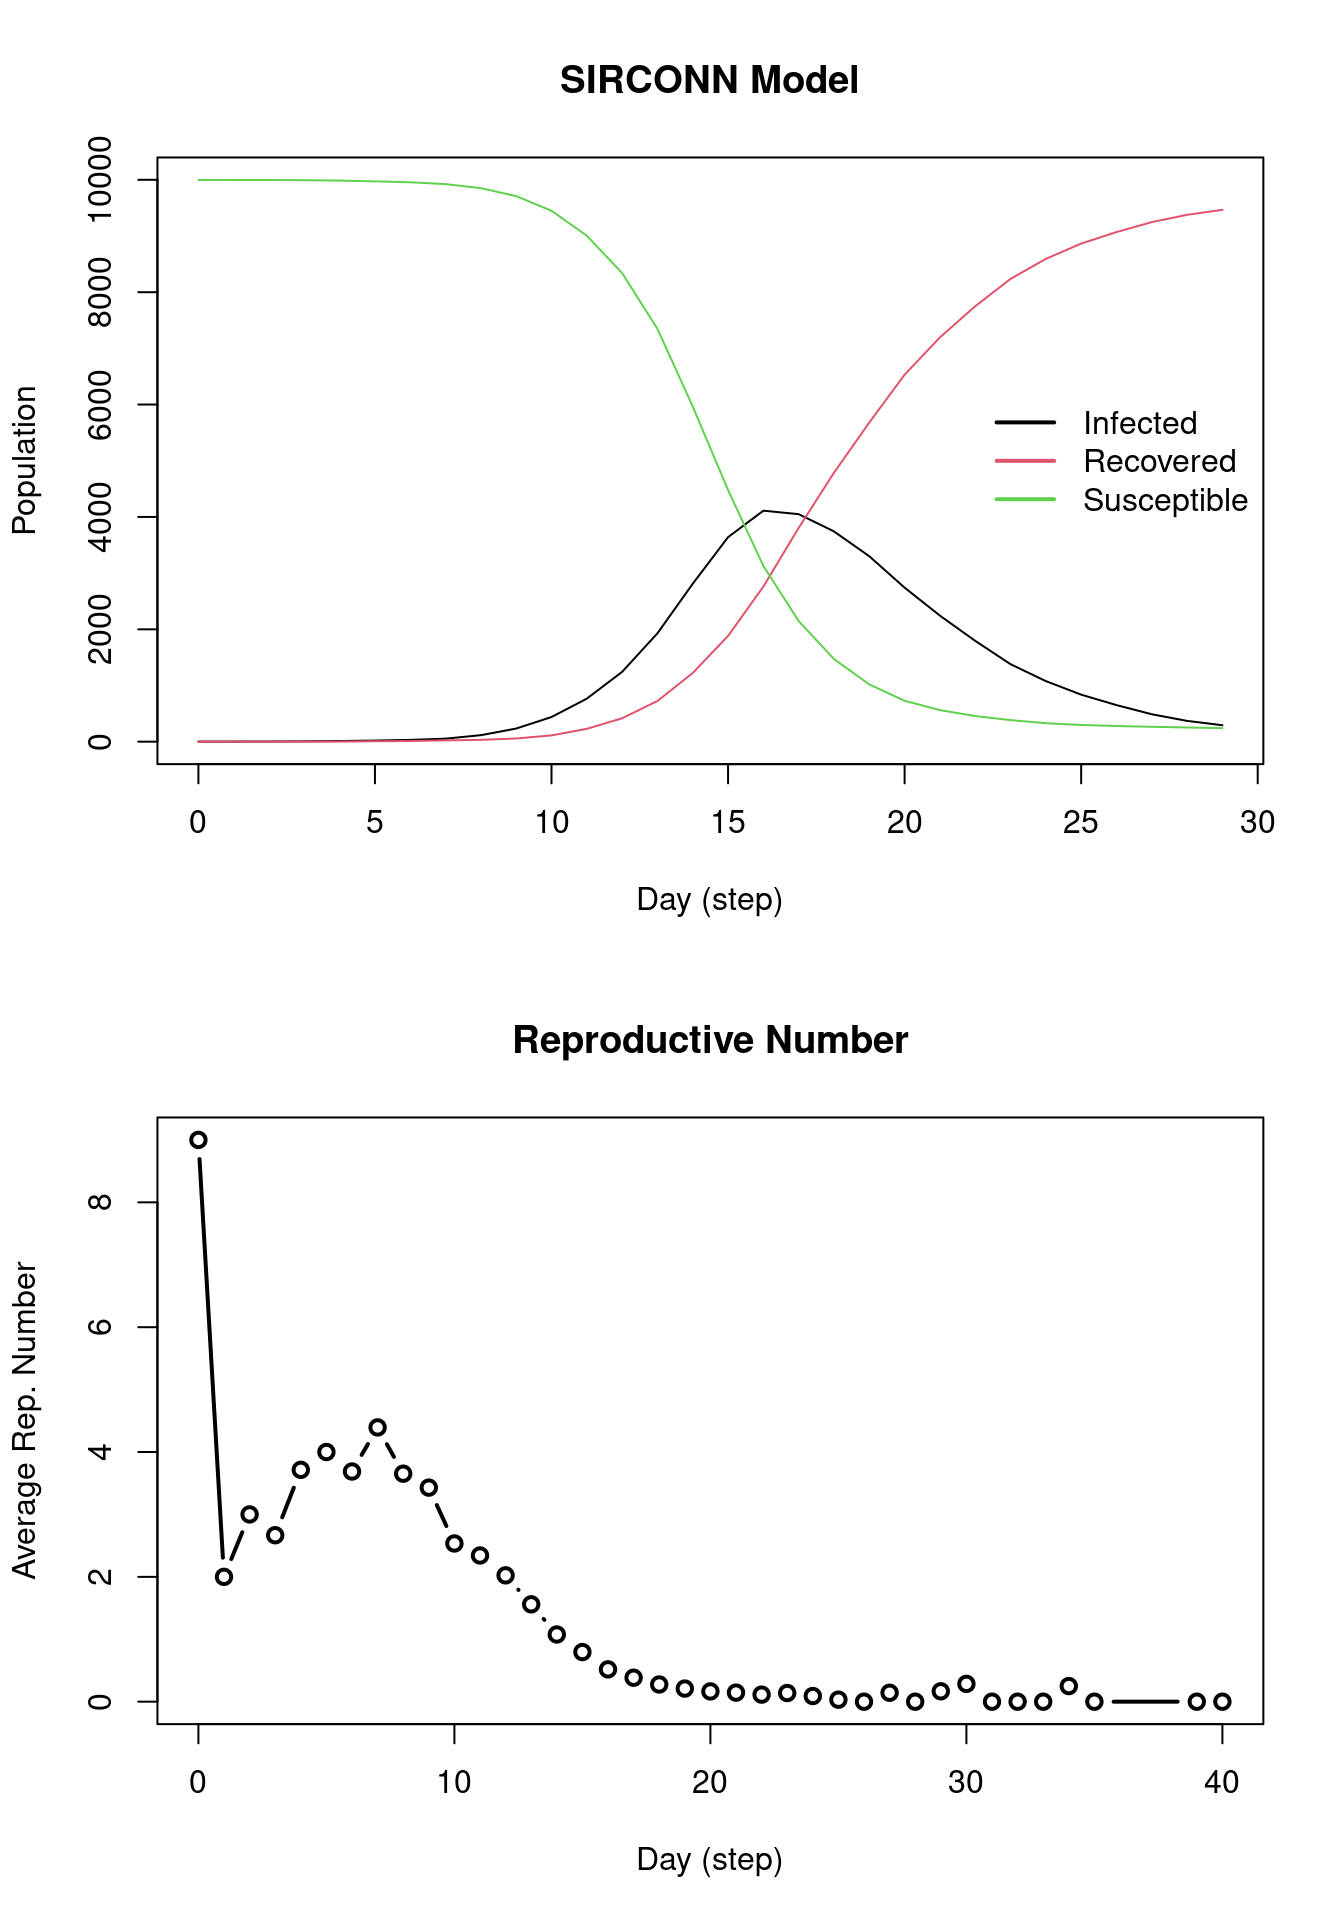
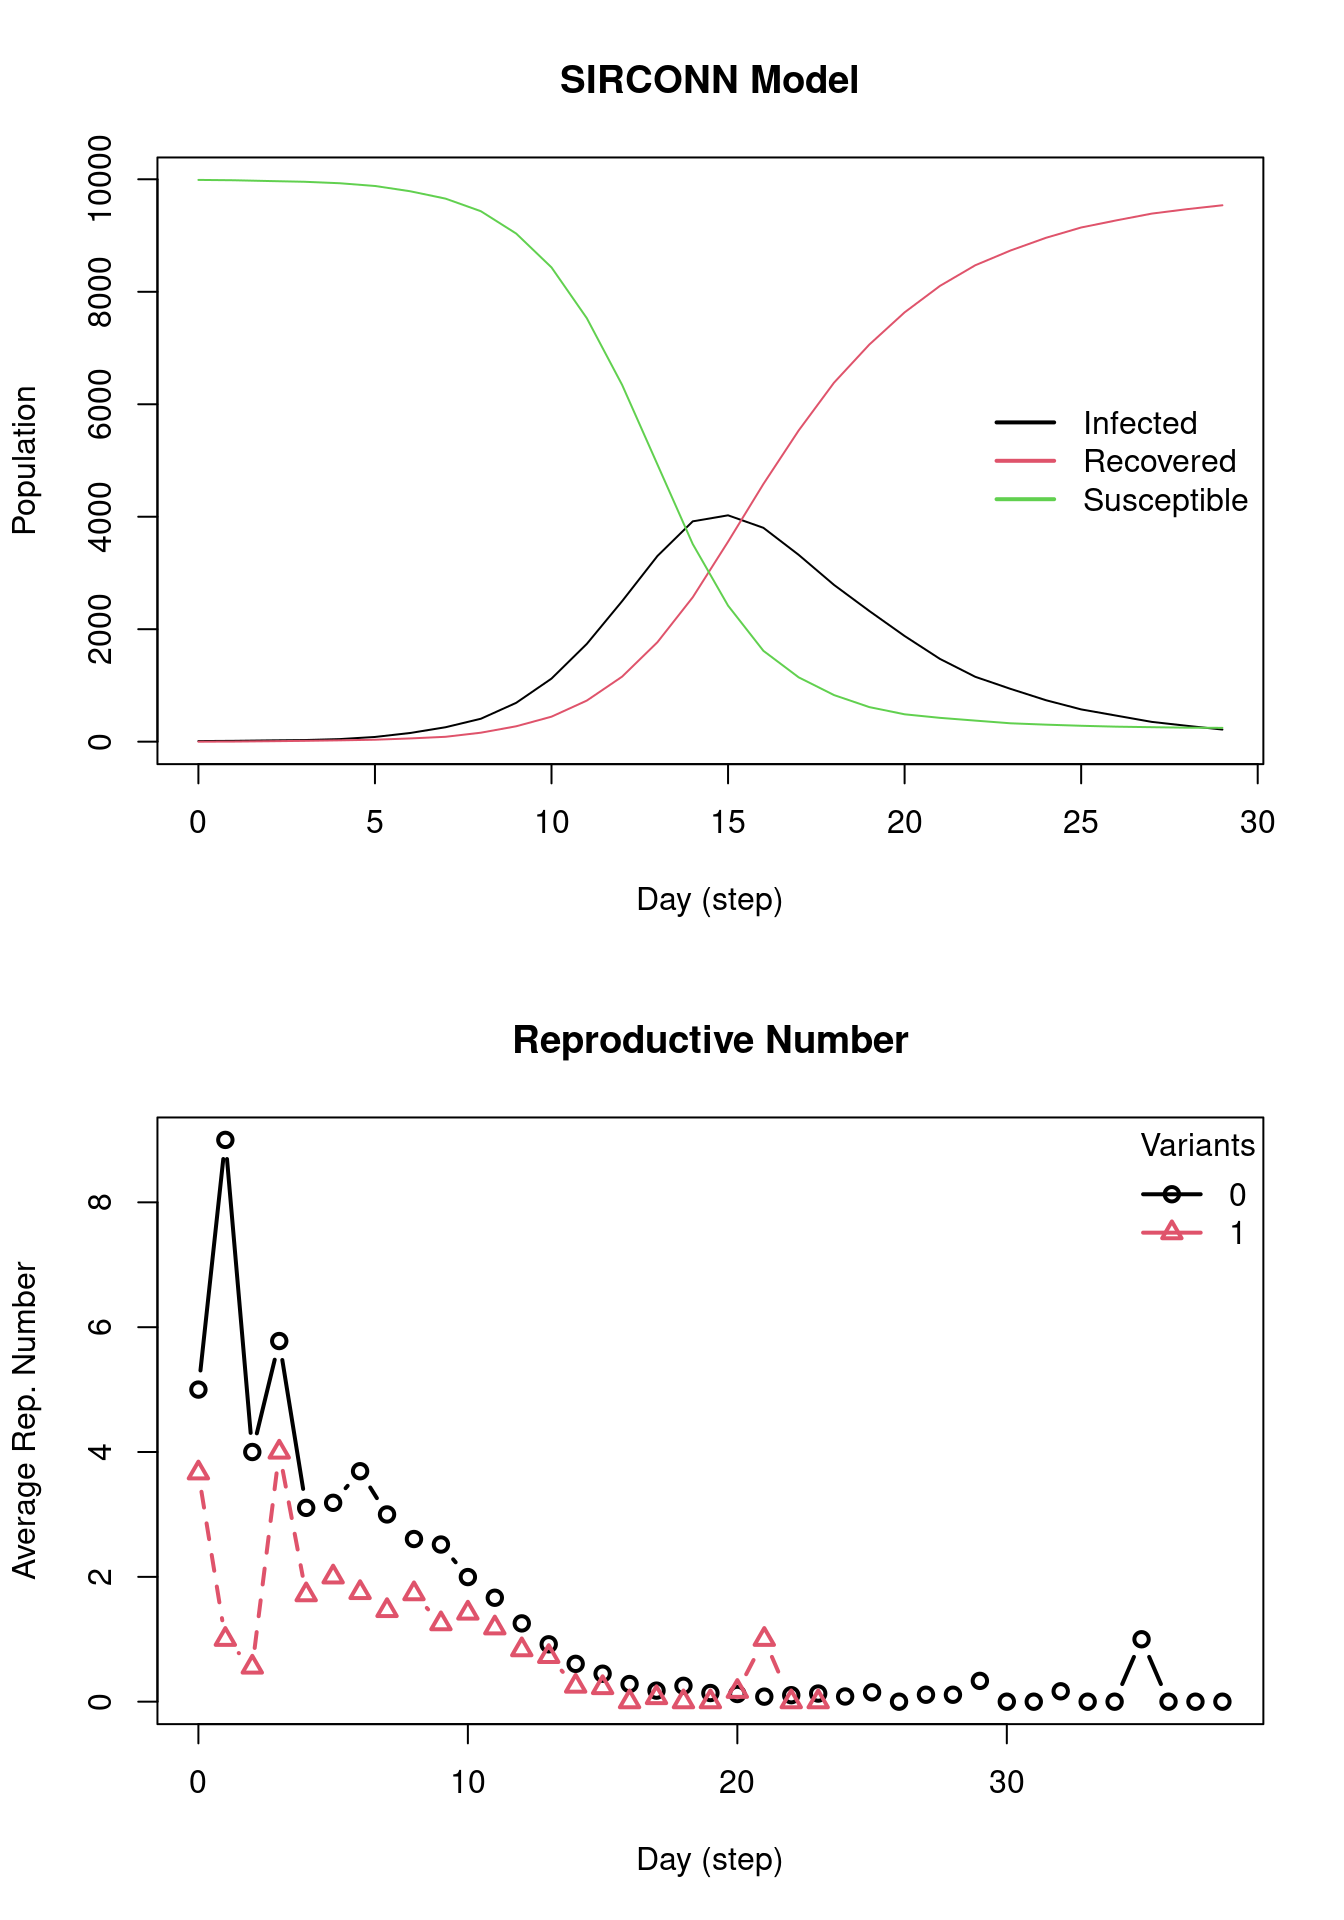
Updating website

diff --git a/docs/part2.html b/docs/part2.html
@@ -122,6 +122,7 @@ code span.wa { color: #60a0b0; font-weight: bold; font-style: italic; } /* Warni
   }
 }</script>
 
+  <script src="https://cdn.jsdelivr.net/npm/mathjax@3/es5/tex-chtml-full.js" type="text/javascript"></script>
 
 <link rel="stylesheet" href="styles.css">
 </head>
@@ -231,7 +232,7 @@ Number of entities  : 0
 Days (duration)     : 50 (of 50)
 Number of variants  : 1
 Last run elapsed t  : 1.00s
-Last run speed      : 4.01 million agents x day / second
+Last run speed      : 2.80 million agents x day / second
 Rewiring            : off
 
 Global actions:
@@ -290,9 +291,9 @@ Number of entities  : 0
 Days (duration)     : 50 (of 50)
 Number of variants  : 2
 Last run elapsed t  : 1.00s
-Total elapsed t     : 2.00s (2 runs)
-Last run speed      : 3.93 million agents x day / second
-Average run speed   : 3.97 million agents x day / second
+Total elapsed t     : 3.00s (2 runs)
+Last run speed      : 2.85 million agents x day / second
+Average run speed   : 2.82 million agents x day / second
 Rewiring            : off
 
 Global actions:
@@ -382,7 +383,7 @@ Transition Probabilities:
 </section>
 <section id="exercise-1" class="level2">
 <h2 class="anchored" data-anchor-id="exercise-1">Exercise 1</h2>
-<p>Using a SIR connected model to simulate the Flu for 75 days, add the Coronavirus Delta variant to the model. Then plot the model parameters and reproductive numbers over time for both viruses. Assume n = 10000, prevalence = 0.0001, contact_rate = 2.1, prob_transmission = 0.5, and prob_recovery = 1/4 for model initialization. Assume the Delta variant has a probability of infecting = 0.3 with an initial prevalence = 0.0001.</p>
+<p>Using a SIR connected model to simulate the Flu for 75 days, add the Coronavirus Delta variant to the model. Then plot the model parameters and reproductive numbers over time for both viruses. Assume n = 10000, prevalence = 0.0001, contact_rate = 2.1, prob_transmission = 0.5, and prob_recovery = <span class="math inline">\(\frac{1}{4}\)</span> for model initialization. Assume the Delta variant has a prob_infecting = 0.3, prob_recovery = <span class="math inline">\(\frac{1}{4}\)</span>, and an initial prevalence = 0.001.</p>
 <div class="callout-note callout callout-style-default callout-captioned">
 <div class="callout-header d-flex align-content-center" data-bs-toggle="collapse" data-bs-target=".callout-1-contents" aria-controls="callout-1" aria-expanded="false" aria-label="Toggle callout">
 <div class="callout-icon-container">
@@ -406,10 +407,10 @@ Solution
 <span id="cb16-8"><a href="#cb16-8" aria-hidden="true" tabindex="-1"></a>  )</span>
 <span id="cb16-9"><a href="#cb16-9" aria-hidden="true" tabindex="-1"></a></span>
 <span id="cb16-10"><a href="#cb16-10" aria-hidden="true" tabindex="-1"></a><span class="co"># Building the virus</span></span>
-<span id="cb16-11"><a href="#cb16-11" aria-hidden="true" tabindex="-1"></a>delta <span class="ot">&lt;-</span> <span class="fu">virus</span>(<span class="at">name =</span> <span class="st">"Delta"</span>, <span class="at">prob_infecting =</span> .<span class="dv">3</span>)</span>
+<span id="cb16-11"><a href="#cb16-11" aria-hidden="true" tabindex="-1"></a>delta <span class="ot">&lt;-</span> <span class="fu">virus</span>(<span class="at">name =</span> <span class="st">"Delta"</span>, <span class="at">prob_infecting =</span> .<span class="dv">3</span>, <span class="at">prob_recovery =</span> <span class="dv">1</span><span class="sc">/</span><span class="dv">4</span>)</span>
 <span id="cb16-12"><a href="#cb16-12" aria-hidden="true" tabindex="-1"></a></span>
 <span id="cb16-13"><a href="#cb16-13" aria-hidden="true" tabindex="-1"></a><span class="co"># Adding the virus to the model</span></span>
-<span id="cb16-14"><a href="#cb16-14" aria-hidden="true" tabindex="-1"></a><span class="fu">add_virus</span>(model_sir, delta, .<span class="dv">0001</span>)</span>
+<span id="cb16-14"><a href="#cb16-14" aria-hidden="true" tabindex="-1"></a><span class="fu">add_virus</span>(model_sir, delta, .<span class="dv">001</span>)</span>
 <span id="cb16-15"><a href="#cb16-15" aria-hidden="true" tabindex="-1"></a></span>
 <span id="cb16-16"><a href="#cb16-16" aria-hidden="true" tabindex="-1"></a><span class="co"># Run the model</span></span>
 <span id="cb16-17"><a href="#cb16-17" aria-hidden="true" tabindex="-1"></a><span class="fu">run</span>(model_sir, <span class="at">ndays =</span> <span class="dv">75</span>, <span class="at">seed =</span> <span class="dv">1912</span>)</span></code><button title="Copy to Clipboard" class="code-copy-button"><i class="bi"></i></button></pre></div>

diff --git a/docs/part3.html b/docs/part3.html
@@ -121,9 +121,6 @@ code span.wa { color: #60a0b0; font-weight: bold; font-style: italic; } /* Warni
     "search-submit-button-title": "Submit"
   }
 }</script>
-<script src="site_libs/quarto-diagram/mermaid.min.js"></script>
-<script src="site_libs/quarto-diagram/mermaid-init.js"></script>
-<link href="site_libs/quarto-diagram/mermaid.css" rel="stylesheet">
 
   <script src="https://cdn.jsdelivr.net/npm/mathjax@3/es5/tex-chtml-full.js" type="text/javascript"></script>
 
@@ -321,22 +318,7 @@ Tip
 </div>
 <div id="callout-1" class="callout-1-contents callout-collapse collapse">
 <div class="callout-body-container callout-body">
-<div class="cell">
-<div class="cell-output-display">
-<div>
-<p>
-</p><pre class="mermaid" data-tooltip-selector="#mermaid-tooltip-1">flowchart LR
-  A[Create epiworldR_model] --&gt; B(Generate saver)
-  B --&gt; C(Run epiworldR_model)
-  C --&gt; D(Plot average reproductive number)
-</pre>
-<div id="mermaid-tooltip-1" class="mermaidTooltip">
-
-</div>
-<p></p>
-</div>
-</div>
-</div>
+<p>General Steps: 1. Create epiworldR_model 2. Generate saver 3. Run epiworldR_model 4. Plot average reproductive number</p>
 </div>
 </div>
 </div>
@@ -379,7 +361,7 @@ _________________________________________________________________________
 <span id="cb13-2"><a href="#cb13-2" aria-hidden="true" tabindex="-1"></a>seirconn_100_r <span class="ot">&lt;-</span> <span class="fu">run_multiple_get_results</span>(model_seirconn)<span class="sc">$</span>reproductive</span>
 <span id="cb13-3"><a href="#cb13-3" aria-hidden="true" tabindex="-1"></a><span class="fu">plot</span>(seirconn_100_r)</span></code><button title="Copy to Clipboard" class="code-copy-button"><i class="bi"></i></button></pre></div>
 <div class="cell-output-display">
-<p><img src="part3_files/figure-html/unnamed-chunk-4-1.png" class="img-fluid" width="672"></p>
+<p><img src="part3_files/figure-html/unnamed-chunk-3-1.png" class="img-fluid" width="672"></p>
 </div>
 </div>
 </div>
@@ -401,23 +383,7 @@ Tip
 </div>
 <div id="callout-3" class="callout-3-contents callout-collapse collapse show">
 <div class="callout-body-container callout-body">
-<div class="cell">
-<div class="cell-output-display">
-<div>
-<p>
-</p><pre class="mermaid" data-tooltip-selector="#mermaid-tooltip-2">flowchart LR
-  A[Create tool] --&gt; B(Use `globalaction_tool` &amp; `add_global_action`)
-  B --&gt; C(Generate saver &amp; run-multiple)
-  C --&gt; D(Plot average reproductive number)
-
-</pre>
-<div id="mermaid-tooltip-2" class="mermaidTooltip">
-
-</div>
-<p></p>
-</div>
-</div>
-</div>
+<p>General Steps: 1. Create tool 2. Use <code>globalaction_tool</code> &amp; <code>add_global_action</code> 3. Generate saver &amp; run-multiple 4. Plot average reproductive number</p>
 </div>
 </div>
 </div>
@@ -463,7 +429,7 @@ _________________________________________________________________________
 <span id="cb16-2"><a href="#cb16-2" aria-hidden="true" tabindex="-1"></a>seirconn_100_r2 <span class="ot">&lt;-</span> <span class="fu">run_multiple_get_results</span>(model_seirconn)<span class="sc">$</span>reproductive</span>
 <span id="cb16-3"><a href="#cb16-3" aria-hidden="true" tabindex="-1"></a><span class="fu">plot</span>(seirconn_100_r2)</span></code><button title="Copy to Clipboard" class="code-copy-button"><i class="bi"></i></button></pre></div>
 <div class="cell-output-display">
-<p><img src="part3_files/figure-html/unnamed-chunk-6-1.png" class="img-fluid" width="672"></p>
+<p><img src="part3_files/figure-html/unnamed-chunk-4-1.png" class="img-fluid" width="672"></p>
 </div>
 </div>
 </div>
